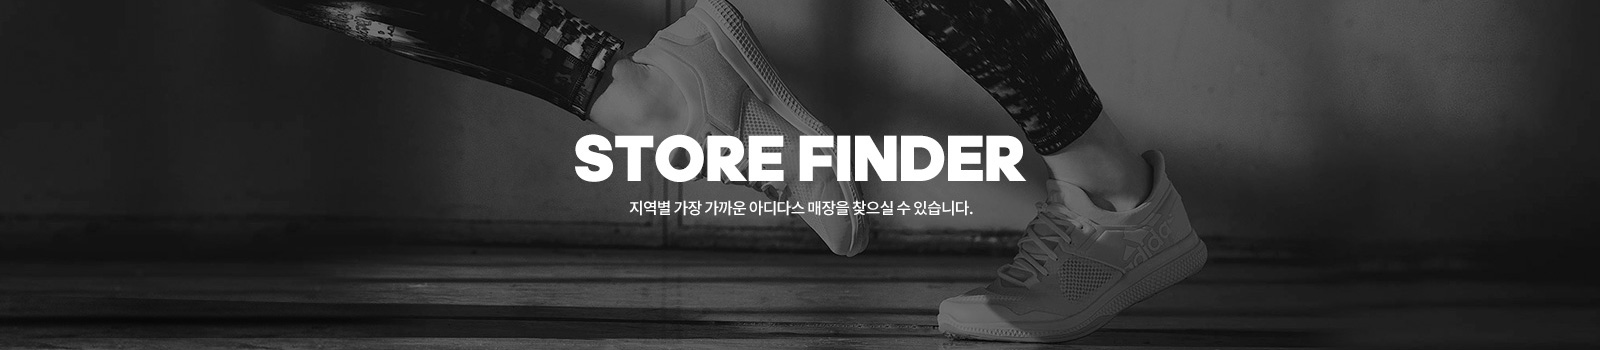
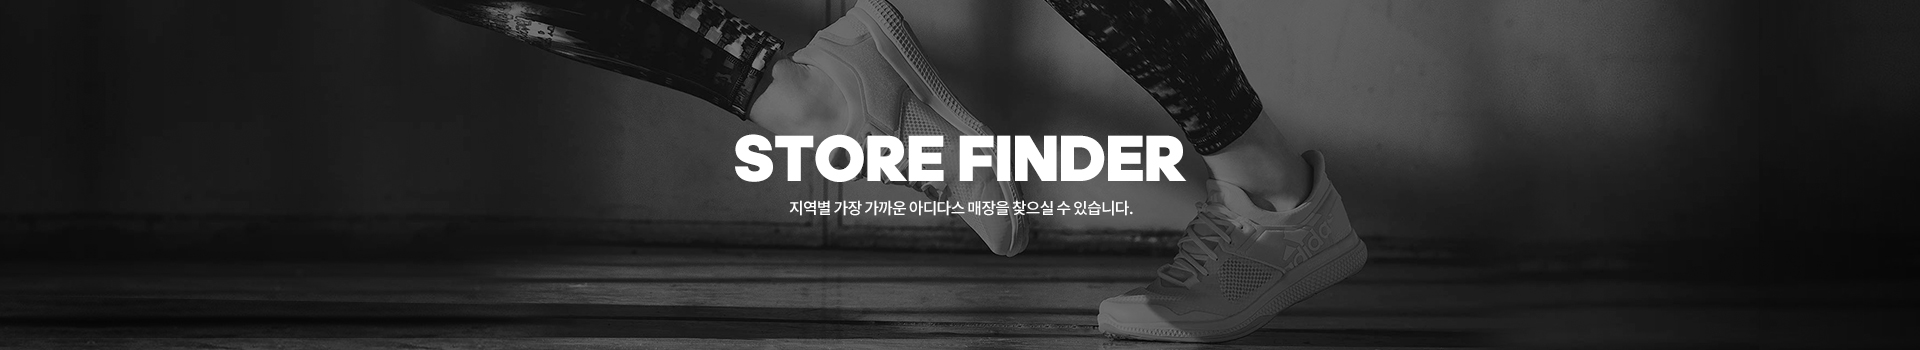
아디다스 매장찾기

diff --git a/app/html/adidas/storefinder.html b/app/html/adidas/storefinder.html
@@ -1317,11 +1317,12 @@
 										<td class="store"><p>Outlet 직영</p></td>
 										<td class="address">
 											<p>지번명: 서울특별시 강남구 신사동 662-2</p>
-											<p>도로명: 1페이지 최대 게시글 9개 입니다. 1페이지 최대 게시글 9개 입니다. 1페이지 최대 게시글 9개 입니다.</p>
+											<p>도로명: 서울특별시 강남구 압구정로 50길 13(충무로1가)</p>
 										</td>
 										<td><p>02-593-3415</p></td>
 										<td><a href="#" class="storefinder_icon outlet"></a></td>
 									</tr>
+
 								</tbody>
 							</table>
 						</div>

diff --git a/app/css/adidas/adidas_r.css b/app/css/adidas/adidas_r.css
@@ -3992,7 +3992,7 @@ div.cont758 .paging_r .next{width:13px;height:13px;background-position:right -40
 .storefinder-wrapper .main .bg{
 	position: absolute;
 	left:50%;
-	margin-left: -800px;
+	margin-left: -960px;
 }
 .storefinder-wrapper .content .select-area{
 	padding: 30px 0 0 0;
